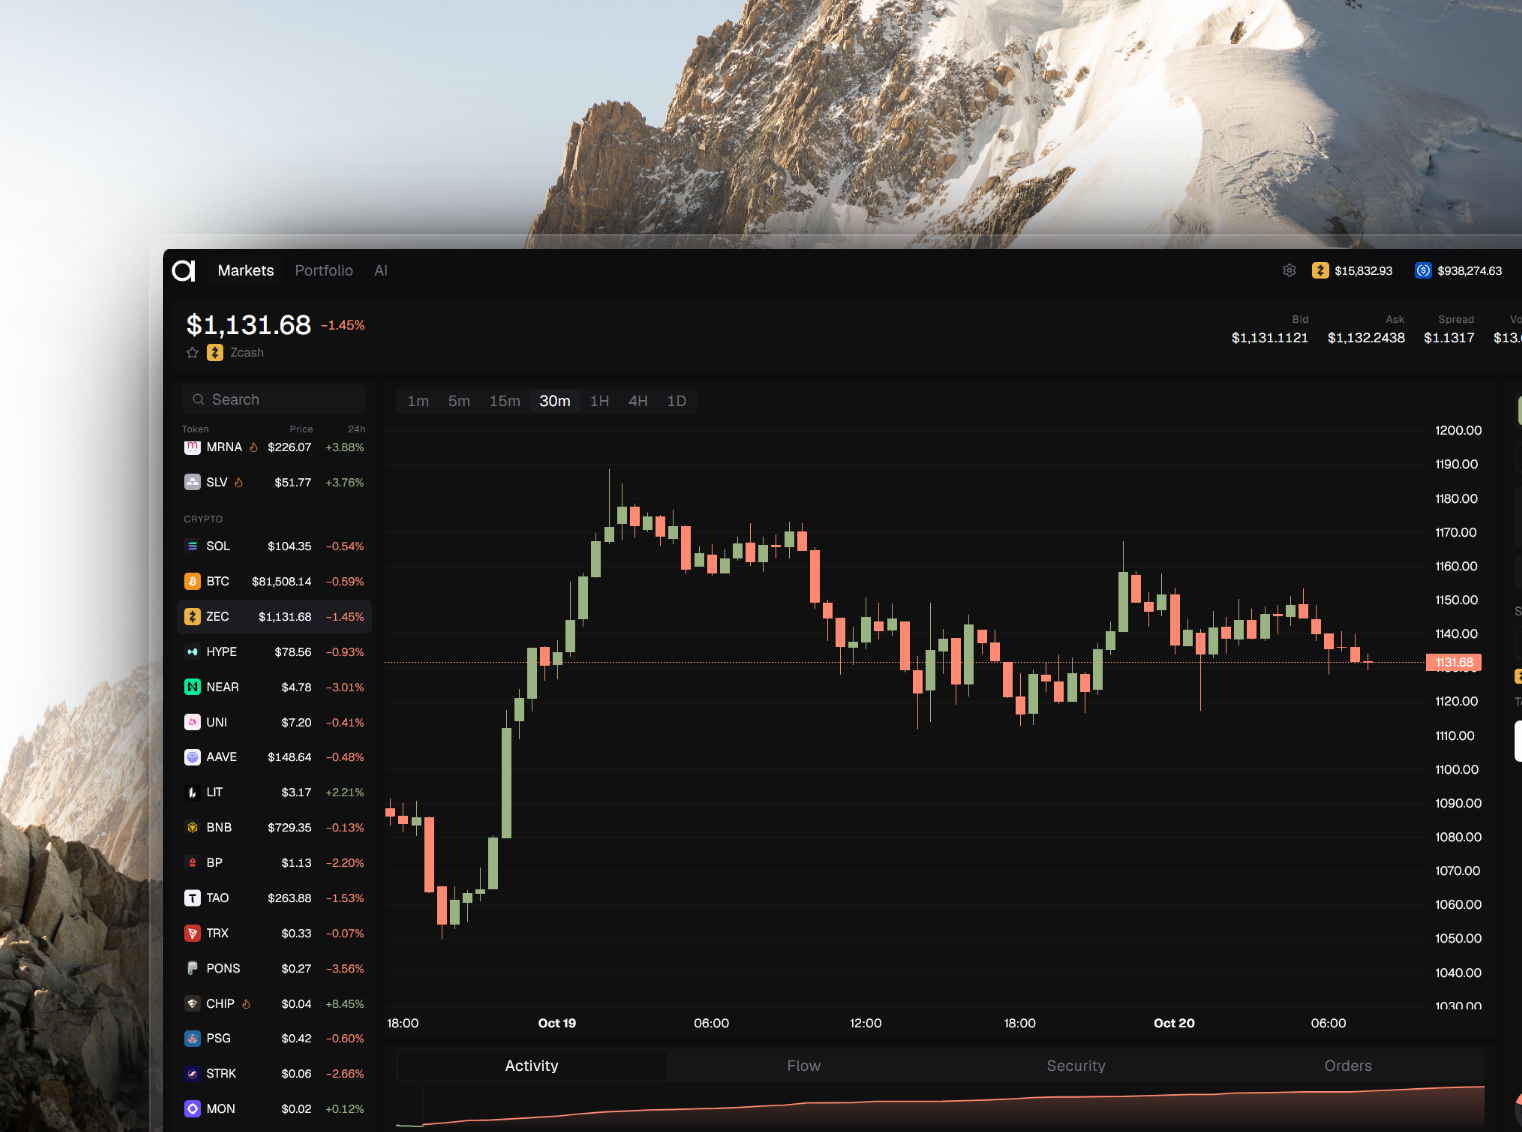
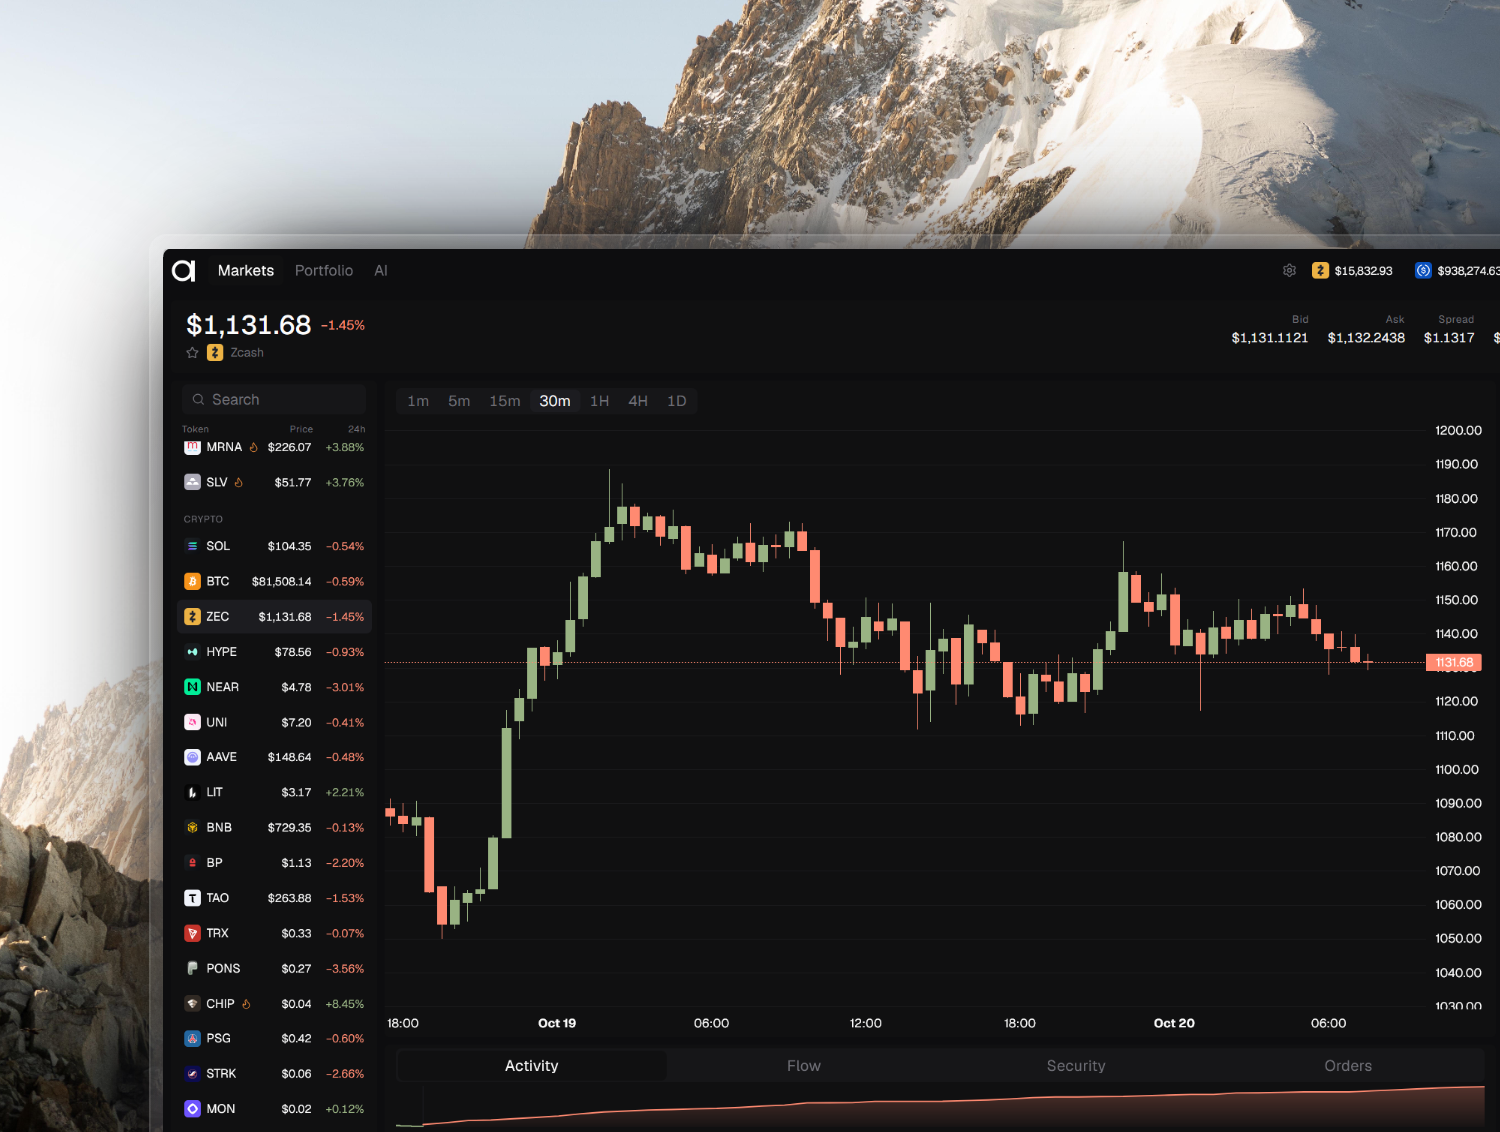
Swap the hero for the tighter desk screenshot.

diff --git a/index.html b/index.html
@@ -104,7 +104,7 @@
             <img
               src="./images/hero-desktop.png"
               alt="Acend trading desk over a mountain, with markets, a chart, and an order ticket."
-              width="1522"
+              width="1500"
               height="1132"
             />
           </figure>

diff --git a/styles.css b/styles.css
@@ -584,7 +584,7 @@ blockquote {
   overflow: hidden;
   border-radius: var(--radius);
   background: var(--card-03);
-  aspect-ratio: 1522 / 1132;
+  aspect-ratio: 1500 / 1132;
 }
 
 .stage::after {
